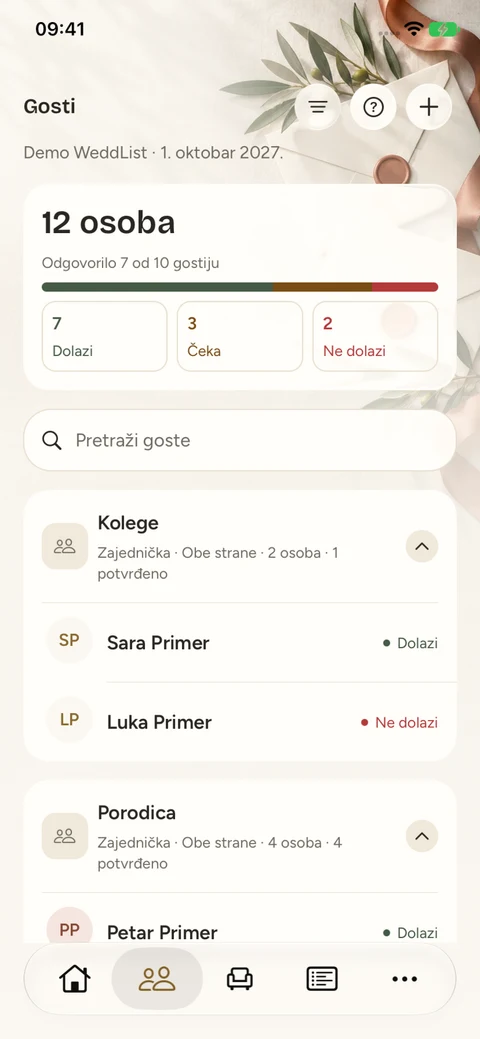
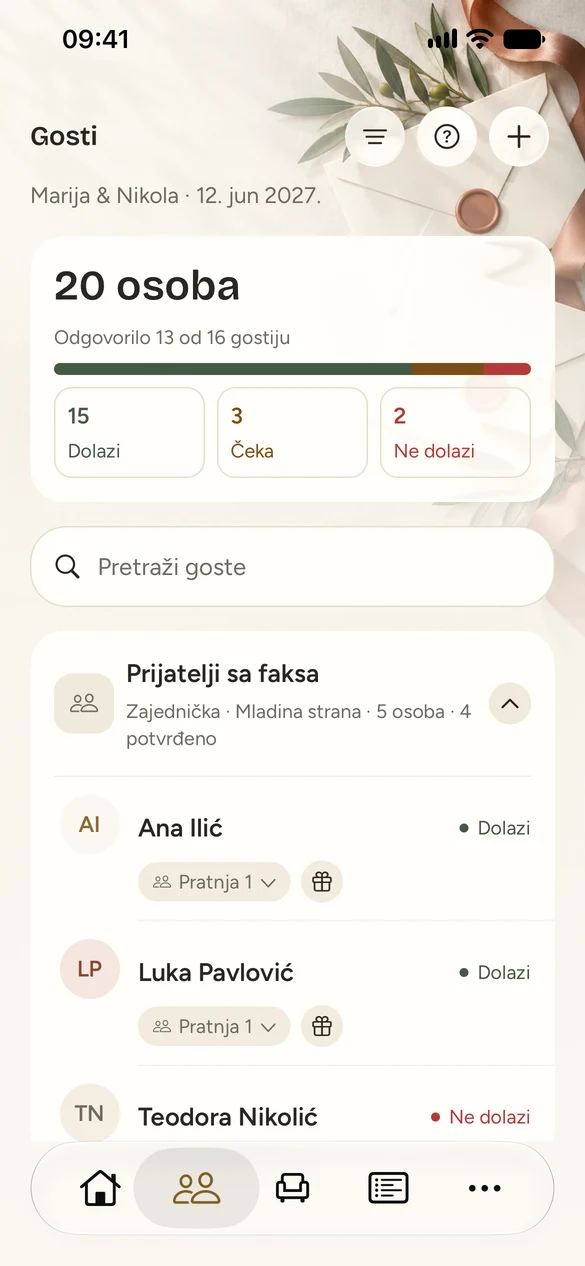
fix: replace WeddList preview with updated iOS screenshot

diff --git a/src/modules/landing/components/weddlist-promo.tsx b/src/modules/landing/components/weddlist-promo.tsx
@@ -93,8 +93,8 @@ export function WeddlistPromo() {
         <figure className="mx-auto w-[116px] min-[380px]:col-start-2 min-[380px]:row-start-2 md:row-span-2 md:row-start-1 md:w-[148px]">
           <Image
             src="/images/weddlist/ios-guests.webp"
-            width={480}
-            height={1039}
+            width={585}
+            height={1266}
             alt="WeddList iOS: pregled gostiju i potvrda dolaska"
             unoptimized
             className="h-auto w-full"
